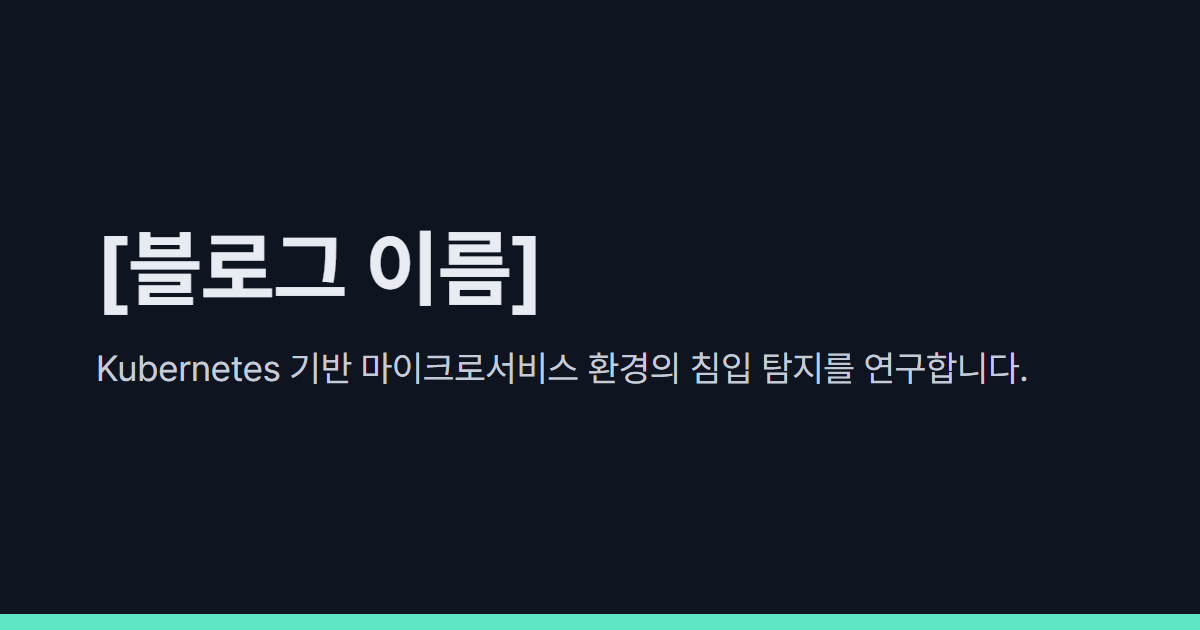
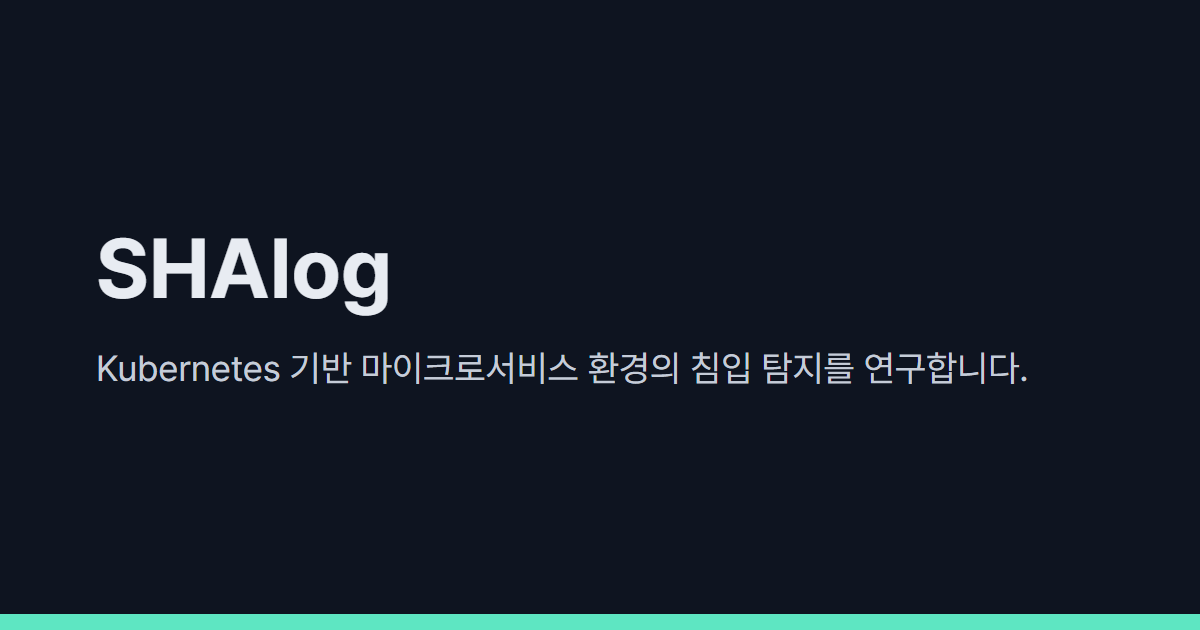
chore: 사이트 정보 입력 (SHAlog), 미정 프로젝트 정보 숨김
- 블로그 이름 SHAlog, 표시 이름 mujigaejuice, 한 줄 소개 자리표시자 제거
- 푸터 GitHub 링크 숨김(GITHUB_URL을 비우면 숨겨지도록 변경)
- projects 스키마: status 선택 항목, stack 기본값 [] (비우면 표시하지 않음)
- 아이캐치·전화 응대의 상태·GitHub, 모든 프로젝트의 GitHub 주소 자리표시자 제거
- 상태가 없을 때 기간 앞 구분점(·)이 남지 않도록 ProjectPeriod에 separator 옵션
- OG 이미지를 SHAlog로 다시 생성
- Vercel 흉내 빌드(Node 26, CI=1, 도메인 환경 변수)에서 자리표시자 검사 통과 확인

Changed region(s): [[0.0617, 0.3619, 0.4625, 0.5127]]

diff --git a/src/consts.ts b/src/consts.ts
@@ -1,10 +1,12 @@
-// 사이트 공통 정보. [ ] 표시는 실제 값으로 바꿔야 하는 자리입니다.
-export const SITE_TITLE = '[블로그 이름]';
+// 사이트 공통 정보
+export const SITE_TITLE = 'SHAlog';
 export const SITE_DESCRIPTION = 'Kubernetes 기반 마이크로서비스 환경의 침입 탐지를 연구합니다.';
-export const AUTHOR_NAME = '[이름]';
-export const GITHUB_URL = 'https://github.com/[아이디]';
+export const AUTHOR_NAME = 'mujigaejuice';
+// 푸터의 GitHub 링크. 비워 두면(undefined) 링크를 숨깁니다. 예: 'https://github.com/<계정>'
+export const GITHUB_URL: string | undefined = undefined;
 // 소개 페이지의 Email 버튼 주소. 비워 두면(undefined) 버튼을 숨깁니다.
 // 공개 페이지에 노출되므로 스팸 수집 대상이 될 수 있습니다. 예: export const EMAIL: string | undefined = 'me@example.org';
 export const EMAIL: string | undefined = undefined;
 // 링크 공유 미리보기(OG) 기본 이미지. public/og-default.png (1200×630)
+// 블로그 이름이나 소개를 바꾸면 scripts/og-template.html로 다시 만듭니다.
 export const DEFAULT_OG_IMAGE = '/og-default.png';

diff --git a/src/content.config.ts b/src/content.config.ts
@@ -59,9 +59,9 @@ const projects = defineCollection({
   schema: z
     .object({
       name: z.string(),
-      status: z.enum(['진행 중', '완료']),
+      status: z.enum(['진행 중', '완료']).optional(), // 비워 두면 상태를 표시하지 않음
       summary: z.string(),
-      stack: z.array(z.string()),
+      stack: z.array(z.string()).default([]), // 비워 두면 스택을 표시하지 않음
       startDate: projectDate, // 시작 (예: 2025-03)
       endDate: projectDate, // 끝. 진행 중이면 비워 둔다 → 화면에 '현재'로 표시
       github: z.url().optional(),

diff --git a/scripts/og-template.html b/scripts/og-template.html
@@ -52,7 +52,7 @@
   </head>
   <body>
     <div class="og">
-      <div class="name">[블로그 이름]</div>
+      <div class="name">SHAlog</div>
       <div class="desc">Kubernetes 기반 마이크로서비스 환경의 침입 탐지를 연구합니다.</div>
     </div>
   </body>

diff --git a/src/content/projects/icatch.md b/src/content/projects/icatch.md
@@ -1,11 +1,11 @@
 ---
 name: "아이캐치"
-status: "완료" # [ ] 실제 상태로 바꾸기 ('진행 중' 또는 '완료')
-summary: "육아 보조 에이전트 시스템. [한두 줄 요약]"
-stack: ["[스택1]", "[스택2]"]
-startDate: # [ ] 시작 (예: 2025-03)
-endDate: # [ ] 끝 (예: 2026-02). status가 '완료'면 필수
-github: "https://github.com/[아이디]/icatch"
+# status: "완료"                # '진행 중' 또는 '완료'. 비워 두면 표시하지 않음
+summary: "육아 보조 에이전트 시스템"
+stack: [] # 예: ["Python", "LangChain"]. 비워 두면 표시하지 않음
+startDate: # 시작 (예: 2025-03)
+endDate: # 끝 (예: 2026-02). status가 '완료'면 필수
+# github: "https://github.com/<계정>/icatch"
 order: 2
 featured: true
 ---

diff --git a/src/content/projects/deepmesh.md b/src/content/projects/deepmesh.md
@@ -3,12 +3,10 @@ name: "DeepMesh"
 status: "진행 중"
 summary: "KD-CNN + OCSVM 기반 파드 단위 침입 탐지 사이드카"
 stack: ["Kubernetes", "KD-CNN", "OCSVM"]
-startDate: # [ ] 시작 (예: 2025-03)
+startDate: # 시작 (예: 2025-03). 비워 두면 기간을 표시하지 않음
 endDate: # 끝. 진행 중이면 비워 둡니다(화면에 '현재'로 표시)
-github: "https://github.com/[아이디]/deepmesh"
-paper: "/papers/deepmesh.pdf"
+# github: "https://github.com/<계정>/deepmesh"   # 공개 저장소가 생기면
+paper: "/papers/deepmesh.pdf" # public/papers/deepmesh.pdf를 넣으면 링크가 나타남
 order: 1
 featured: true
 ---
-
-[문제 → 접근 → 결과를 두세 문단으로]

diff --git a/src/content/projects/call-desk.md b/src/content/projects/call-desk.md
@@ -1,11 +1,11 @@
 ---
 name: "전화 응대 매니저웹"
-status: "완료" # [ ] 실제 상태로 바꾸기
-summary: "업무·담당자 검색, 실시간 알림. [한두 줄 요약]"
+# status: "완료"                # '진행 중' 또는 '완료'. 비워 두면 표시하지 않음
+summary: "업무·담당자 검색, 실시간 알림"
 stack: ["Java", "React", "WebSocket"]
-startDate: # [ ] 시작 (예: 2025-03)
-endDate: # [ ] 끝 (예: 2026-02). status가 '완료'면 필수
-github: "https://github.com/[아이디]/call-desk"
+startDate: # 시작 (예: 2025-03)
+endDate: # 끝 (예: 2026-02). status가 '완료'면 필수
+# github: "https://github.com/<계정>/call-desk"
 order: 3
 featured: true
 ---
